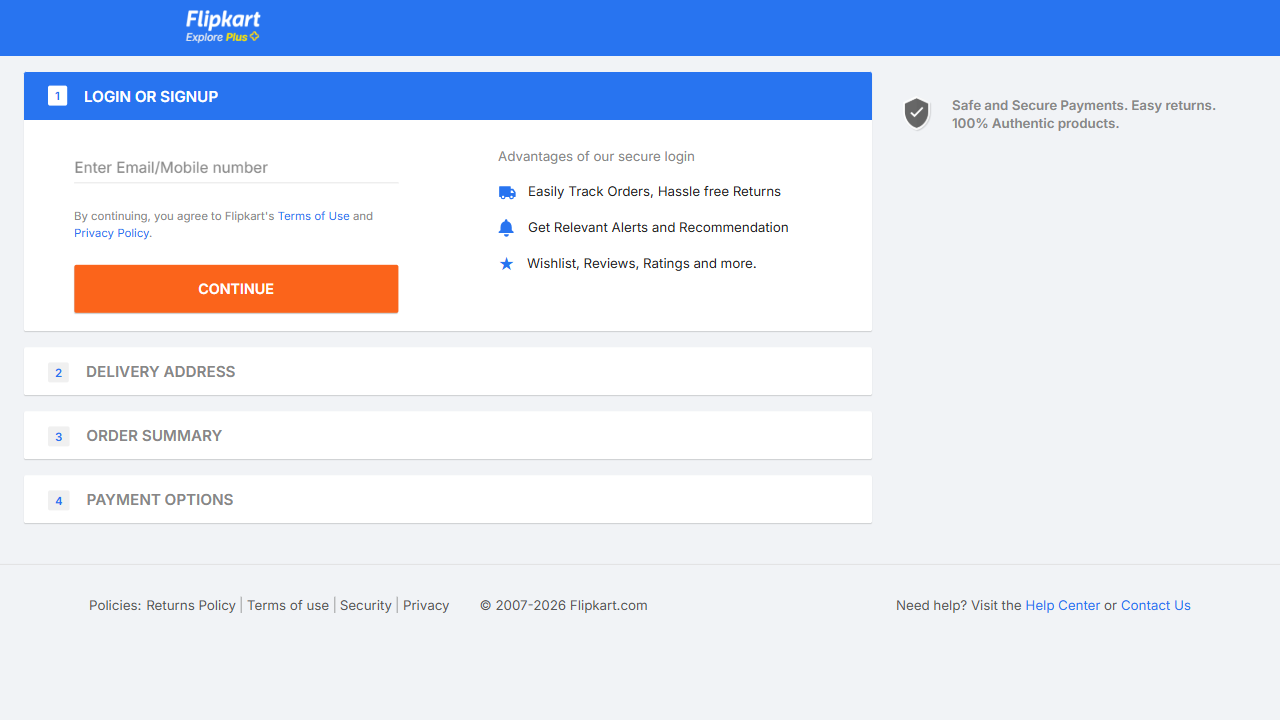
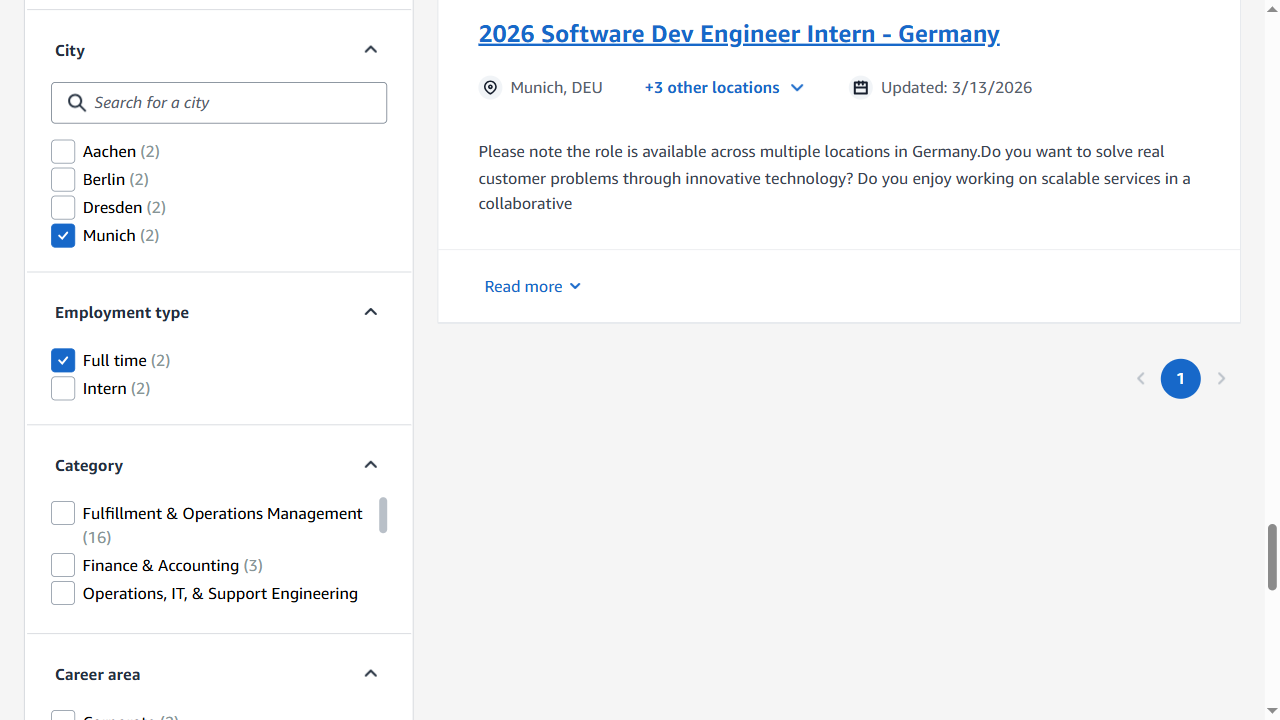
Day22

diff --git a/tests/Day22-task.spec.ts b/tests/Day22-task.spec.ts
@@ -1,0 +1,43 @@
+import {test,expect} from '@playwright/test'
+import AmazonC from "../PageObjectModel/example2.page.ts";
+import fs from 'fs';
+import path from 'path';
+
+let datafile = fs.readFileSync(path.join(__dirname,'../testdata/data5.json')); 
+let data = JSON.parse(datafile);
+
+test("task-1",async({browser,browserName})=>{
+    let context= await browser.newContext();
+    let page = await context.newPage();
+    let url = data.url;
+    let country = data.country;
+    let State = data.State;
+    let city = data.city;
+    let employment = data.employment;
+    let category = data.category;
+    
+
+    let amazon1 = new AmazonC(page);
+    await page.goto(url);
+    await amazon1.carrerBtn.click();
+    await amazon1.studentRoleBtn.click()
+    await amazon1.openUniBtn.click();
+    await amazon1.select(country,page);
+    await amazon1.select(State,page);
+    await amazon1.select(city,page);
+    await amazon1.select(employment,page);
+    await amazon1.select(category,page);
+
+    let [page2] = await Promise.all([
+        page.waitForEvent("popup"),
+        amazon1.jobNo(2)
+    ])
+
+    let amazon2 = new AmazonC(page2);
+    await amazon2.applyNowBtn.click();
+
+    await page2.waitForTimeout(5000);
+
+     await page.screenshot({path:"screeshot/Day21-task.png"});
+
+})

diff --git a/PageObjectModel/example2.page.ts b/PageObjectModel/example2.page.ts
@@ -1,0 +1,26 @@
+class AmazonC{
+    carrerBtn:any;
+    studentRoleBtn:any;
+    openUniBtn:any;
+    Cbox:any;
+    jobLnk:any;
+    applyNowBtn:any;
+
+
+    constructor (page){
+        this.carrerBtn = page.locator('//a[text()="Careers"]');
+        this.studentRoleBtn = page.locator('//a[@aria-label="Student opportunities"]');
+        this.openUniBtn = page.locator('//div[contains(text(),"open university")]');
+        this.jobLnk = page.locator('//a[contains(@class,"header-module_title__9-W3R")]');
+        this.applyNowBtn = page.locator('//a[@id="apply-button"]');
+    }
+    async select(c,page){
+        this.Cbox = page.locator(`//div[text()="${c}"]`);
+        await this.Cbox.click();
+    }
+    async jobNo(n){
+        await this.jobLnk.nth(n-1).click();
+    }
+}
+
+export default AmazonC;

diff --git a/PageObjectModel/example.page.ts b/PageObjectModel/example.page.ts
@@ -46,14 +46,14 @@ class Flipcart{
         await newPage.close();
     }
 
-     async openCart(){
+    async openCart(){
 
         await this.cart.click();
 
     }
 
    async updateQuantity(index:number,value:string){
-    await this.quantity.nth(index).fill(value);
+     this.quantity.nth(index).fill(value);
 }
 
 }
